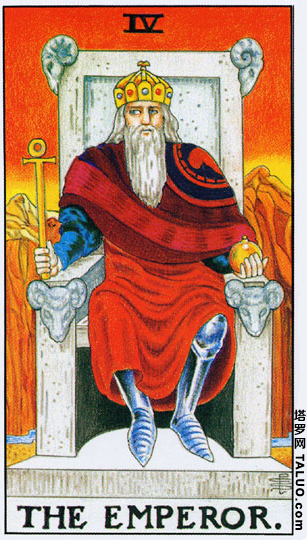
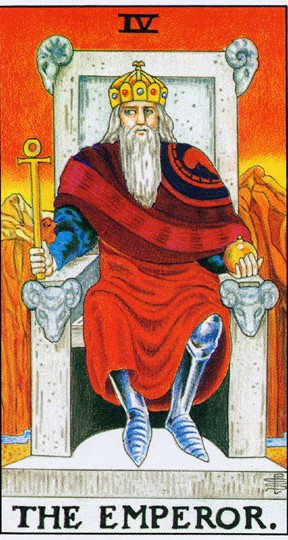
Add files via upload
The system optimizes the system of polaromo. When it is greater than 1min, it will display minutes instead of seconds. When it is greater than 1h, it will display hours instead of minutes (with decimals). As well as optimizing the problem of not seeing the card name when drawing tarot cards, and cutting off the white edge of the image.

diff --git a/js/app.js b/js/app.js
@@ -97,6 +97,7 @@
             tomatoUnit: ' 个番茄',
             minUnit: '分钟',
             secUnit: '秒',
+            hourUnit: '小时',
             percentComplete: '% 完成',
             focusTodayLabel: '今日专注',
             last7Days: '最近 7 天专注时长',
@@ -207,6 +208,7 @@
             tomatoUnit: ' tomatoes',
             minUnit: 'min',
             secUnit: 's',
+            hourUnit: 'h',
             percentComplete: '% done',
             focusTodayLabel: 'Focus today',
             last7Days: 'Focus time in the last 7 days',
@@ -327,25 +329,30 @@
     function countUp(el, to, duration) {
         if (!el) return;
         duration = duration || 600;
-        var from = parseInt(el.textContent, 10) || 0;
+        var from = parseFloat(el.textContent) || 0;
         to = Number(to) || 0;
         if (from === to) { el.textContent = to; return; }
+        var hasDecimal = to % 1 !== 0;
         var start = performance.now();
 
         function step(now) {
             var tt = Math.min((now - start) / duration, 1);
             var eased = 1 - Math.pow(1 - tt, 3);
-            el.textContent = Math.round(from + (to - from) * eased);
+            var val = from + (to - from) * eased;
+            el.textContent = hasDecimal ? (Math.round(val * 10) / 10) : Math.round(val);
             if (tt < 1) requestAnimationFrame(step);
             else el.textContent = to;
         }
         requestAnimationFrame(step);
     }
 
+    /* 秒 → 三档显示：秒 / 分钟 / 小时（小时保留一位小数） */
     function formatDuration(seconds) {
         var s = Math.max(0, Math.round(seconds));
         if (s < 60) return { v: s, unitKey: 'secUnit' };
-        return { v: Math.round(s / 60), unitKey: 'minUnit' };
+        if (s < 3600) return { v: Math.round(s / 60), unitKey: 'minUnit' };
+        var h = Math.round(s / 360) / 10;
+        return { v: h, unitKey: 'hourUnit' };
     }
 
     function recSeconds(r) {
@@ -1073,6 +1080,10 @@
                 img.removeAttribute('src');
             }
         }
+        var nameEl = document.getElementById('tarot-name');
+        var enEl = document.getElementById('tarot-en');
+        if (nameEl) nameEl.textContent = data.name;
+        if (enEl) enEl.textContent = card.en.name;
         document.getElementById('tarot-keywords').textContent = data.keywords;
         document.getElementById('tarot-reading').textContent = data.reading;
     }

diff --git a/css/style.css b/css/style.css
@@ -1111,6 +1111,37 @@
       display: block;
       border-radius: 18px;
   }
+  /* 牌名层：叠加在牌面底部 */
+  
+  .tarot-front-label {
+      position: absolute;
+      left: 0;
+      right: 0;
+      bottom: 0;
+      padding: 36px 14px 16px;
+      background: linear-gradient(180deg, transparent, rgba(10, 11, 15, .72) 55%, rgba(10, 11, 15, .85));
+      border-radius: 0 0 18px 18px;
+      text-align: center;
+      pointer-events: none;
+  }
+  
+  .tarot-front-name {
+      font-size: 17px;
+      font-weight: 700;
+      color: #FFFFFF;
+      letter-spacing: .02em;
+      line-height: 1.3;
+      text-shadow: 0 1px 6px rgba(0, 0, 0, .6);
+  }
+  
+  .tarot-front-en {
+      font-size: 9.5px;
+      color: rgba(255, 255, 255, .68);
+      letter-spacing: .22em;
+      text-transform: uppercase;
+      margin-top: 5px;
+      font-weight: 500;
+  }
   
   .reading-card .keywords {
       color: var(--accent-deep);
@@ -1715,6 +1746,9 @@
       .week-stat-row {
           gap: 16px;
       }
+      .tarot-front-name {
+          font-size: 15px;
+      }
   }
   
   @media (min-width: 900px) {
@@ -1847,6 +1881,12 @@
       .tarot-wrap {
           width: 280px;
           margin: 12px auto 32px;
+      }
+      .tarot-front-name {
+          font-size: 20px;
+      }
+      .tarot-front-en {
+          font-size: 10px;
       }
       .reading-card .reading {
           font-size: 15px;

diff --git a/index.html b/index.html
@@ -226,6 +226,10 @@
                         </div>
                         <div class="tarot-face tarot-front">
                             <img class="tarot-img" id="tarot-img" alt="" />
+                            <div class="tarot-front-label">
+                                <div class="tarot-front-name" id="tarot-name"></div>
+                                <div class="tarot-front-en" id="tarot-en"></div>
+                            </div>
                         </div>
                     </div>
                 </div>
